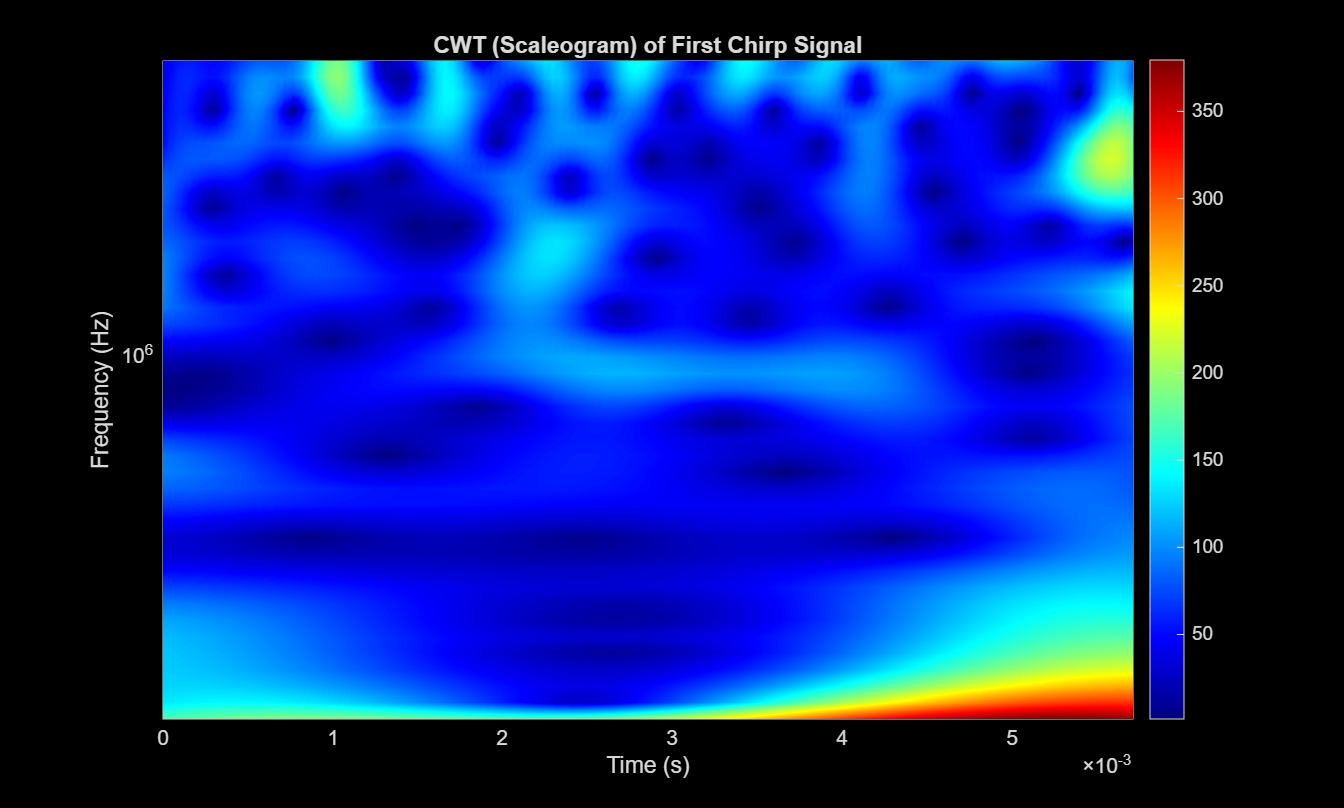
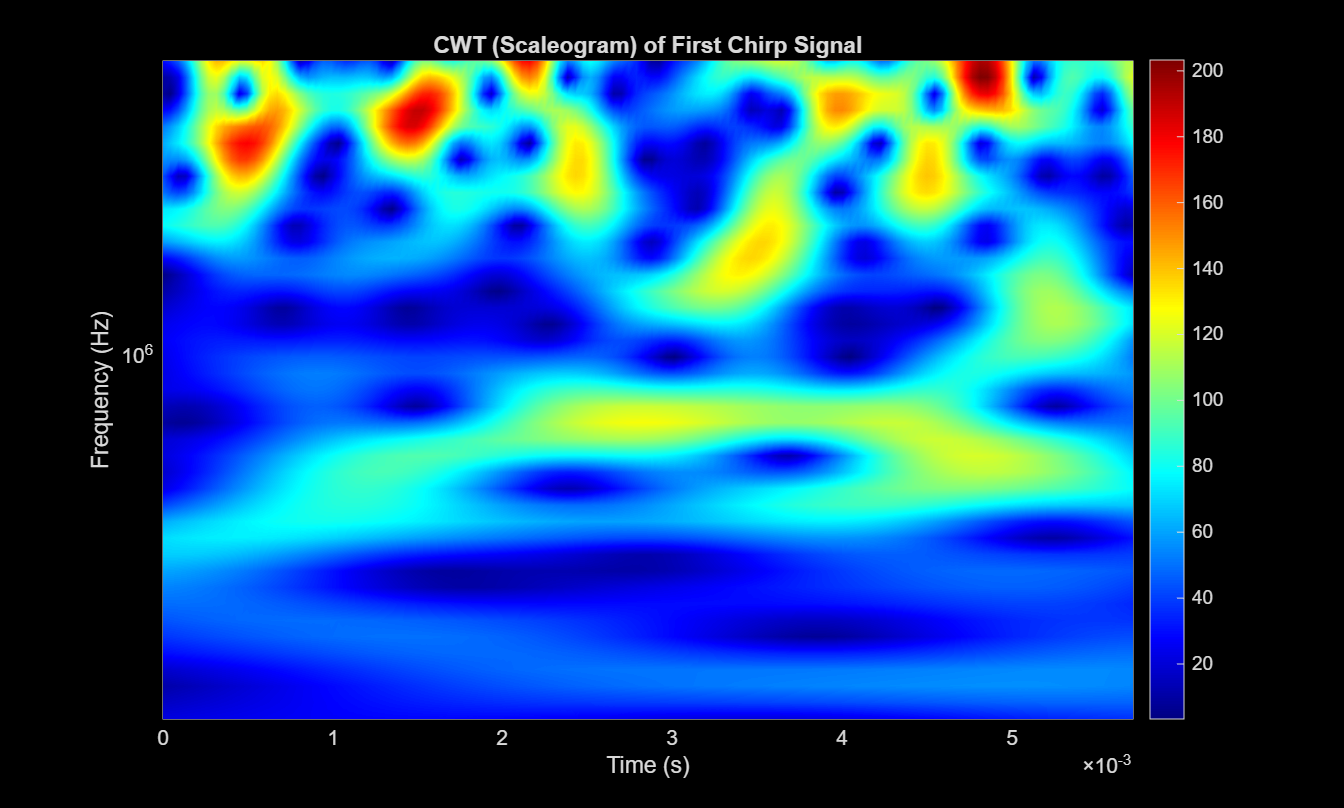
before accelerating

diff --git a/python_implementation/processing/fast_time_wavelet.py b/python_implementation/processing/fast_time_wavelet.py
@@ -172,8 +172,8 @@ class LiveMatlabStyleWavelet:
         Wx_plot = Wx[sort_idx, :]
 
         # Display in dB (keep your live-view scaling behavior)
-        #P_db = 10.0 * np.log10(Wx_plot + 1e-12)
-        P_db = Wx_plot.astype(np.float64)  # Keep as linear magnitude for now, match your snippet's vmin/vmax
+        P_db = 10.0 * np.log10(Wx_plot + 1e-12)
+        #P_db = Wx_plot.astype(np.float64)  # Keep as linear magnitude for now, match your snippet's vmin/vmax
         vmin = float(np.nanpercentile(P_db, 5))
         vmax = float(np.nanpercentile(P_db, 99.5))
         if not np.isfinite(vmin) or not np.isfinite(vmax) or vmax <= vmin:

diff --git a/python_implementation/processing/plot_singleRX_wavelet.py b/python_implementation/processing/plot_singleRX_wavelet.py
@@ -14,7 +14,7 @@ from helpers import *
 
 
 if __name__ == "__main__":
-    DATA_FOLDER = r"C:\radar_receiver\radar_new"
+    DATA_FOLDER = r"C:\ti\mmwave_studio_02_01_01_00\mmWaveStudio\PostProc\phantom_4m_128frame022326"
     GROUP_SIZE = 128
     Ns = ADC_SAMPLES
     Nc = NC_CHIRPS_PER_LOOP

diff --git a/4chip_cascade_MIMO_example/main/cascade/input/test1_param.m b/4chip_cascade_MIMO_example/main/cascade/input/test1_param.m
@@ -44,7 +44,7 @@ chirpRampEndTime = 4.000000e-05; %s
 framePeriodicty = 1.000000e-01; 
 NumDevices = 4; 
 framePeriodicty = 1.000000e-01; 
-frameCount = 3.000000e+00; %s 
+frameCount = 1.280000e+02; %s 
 numChirpsInLoop = 1.200000e+01; %s 
 nchirp_loops = 128; 
 numTxAnt = 12; 
